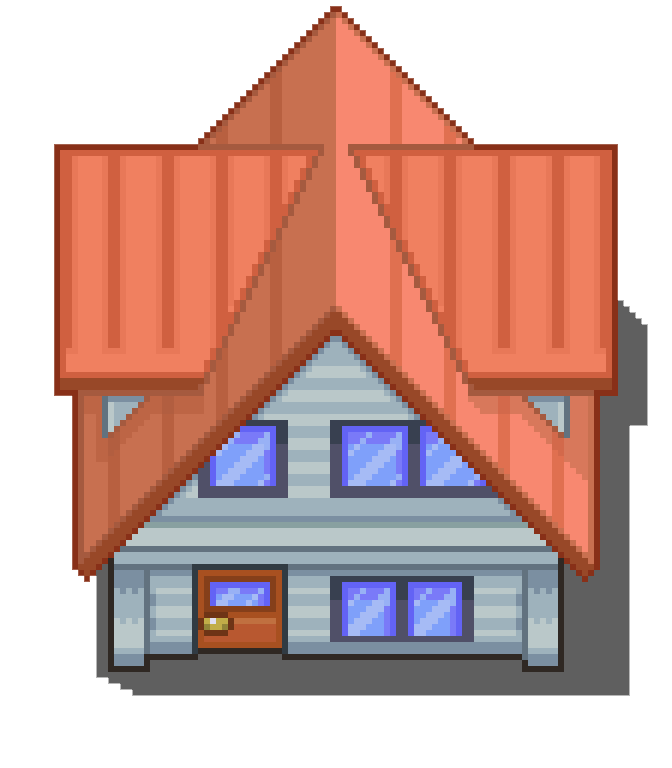
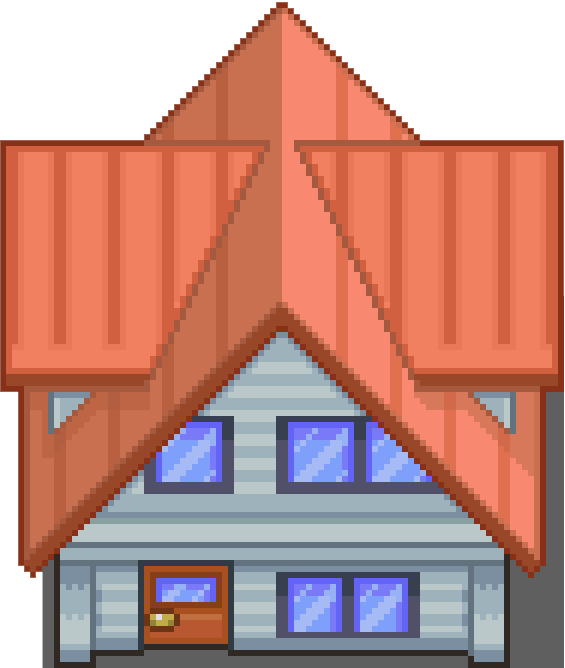
Perspective Fixed

diff --git a/src/graphics/mapDrawer.js b/src/graphics/mapDrawer.js
@@ -87,28 +87,44 @@ MapDrawer.drawMap = function(ctx, map, viewerX, viewerY) {
 
 // Helper function for drawing all entities on the map.
 MapDrawer._helperDrawEntities = function(ctx, map, viewerX, viewerY) {
-	var entitiesToDraw = map.staticMapEntities.slice(0);
+	var entitiesToDraw = map.staticMapInstances.slice(0);
 	entitiesToDraw.sort(function(a, b) {
-		return a.y - b.y;
+		return a.y + a.entity.collisionHeight / 2 - 
+				b.y - b.entity.collisionHeight / 2;
 	});
 	for (var i = 0; i < entitiesToDraw.length; i++) {
-		var yBlockWidth =  MapDrawer.TOP_ROW_TILE_WIDTH * 
-				MapDrawer.NUM_TILES_TOP / 
-						(MapDrawer.NUM_TILES_TOP - (entitiesToDraw[i].y - 
-								(viewerY - MapDrawer.TOTAL_ROWS / 2)) * 
-						MapDrawer.SHRINKAGE.WIDTH);
-		var spriteRatio = yBlockWidth / MapDrawer.TILE_DIM;
-		var anchorLoc = MapDrawer._helperLocatePixel(entitiesToDraw[i].x,
-				entitiesToDraw[i].y, viewerX, viewerY, yBlockWidth);
+		var footYGridPos = 
+				(MapDrawer.TOTAL_ROWS + entitiesToDraw[i].entity.collisionHeight) / 2;
+		var centerYRealGridPos = entitiesToDraw[i].y - 
+				viewerY + MapDrawer.TOTAL_ROWS / 2;
+		var footYRealGridPos = entitiesToDraw[i].y + 
+				entitiesToDraw[i].entity.collisionHeight / 2 - viewerY + 
+				MapDrawer.TOTAL_ROWS / 2;
+		var realYDiff = MapDrawer._helperCalcScreenY(footYGridPos) - 
+				MapDrawer._helperCalcScreenY(MapDrawer.TOTAL_ROWS / 2);
+		var gridYDiff = MapDrawer._helperCalcScreenY(footYRealGridPos) - 
+				MapDrawer._helperCalcScreenY(centerYRealGridPos);
+		var yScale = 1;//gridYDiff / realYDiff;
+		var widthAtMidFoot = MapDrawer.TOP_ROW_TILE_WIDTH * 
+				MapDrawer.NUM_TILES_TOP / (MapDrawer.NUM_TILES_TOP - 
+				(footYGridPos) * MapDrawer.SHRINKAGE.WIDTH);
+		var widthAtRealFoot = MapDrawer._helperGetYBlockWidth(
+				entitiesToDraw[i].y + entitiesToDraw[i].entity.collisionHeight / 2, 
+				viewerY);
+		var xScale = widthAtRealFoot / widthAtMidFoot;
+		var centerLoc = MapDrawer._helperLocatePixel(entitiesToDraw[i].x, 
+				entitiesToDraw[i].y + entitiesToDraw[i].entity.collisionHeight / 2, 
+				viewerX, viewerY, MapDrawer._helperGetYBlockWidth(entitiesToDraw[i].y + 
+						entitiesToDraw[i].entity.collisionHeight / 2, viewerY));
 		// check if the boundingBox is in bounds
 		var boundingRect = {
-			x: anchorLoc.x - entitiesToDraw[i].anchor.x * spriteRatio,
-			y: anchorLoc.y - entitiesToDraw[i].anchor.y * spriteRatio,
-			width: entitiesToDraw[i].sprite.width * spriteRatio,
-			height: entitiesToDraw[i].sprite.height * spriteRatio
+			x: centerLoc.x - entitiesToDraw[i].entity.center.x * xScale,
+			y: centerLoc.y - entitiesToDraw[i].entity.sprite.height * yScale,
+			width: entitiesToDraw[i].entity.sprite.width * xScale,
+			height: entitiesToDraw[i].entity.sprite.height * yScale
 		};
 		if (MapDrawer._helperRectOnScreen(boundingRect)) {
-			ctx.drawImage(entitiesToDraw[i].sprite, boundingRect.x, 
+			ctx.drawImage(entitiesToDraw[i].entity.sprite, boundingRect.x, 
 					boundingRect.y, boundingRect.width, boundingRect.height);
 		}
 	}
@@ -130,6 +146,13 @@ MapDrawer._helperLocatePixel = function(x, y, viewerX, viewerY, yBlockWidth) {
 	result.y = MapDrawer._helperCalcScreenY(
 			y - (viewerY - MapDrawer.TOTAL_ROWS / 2));
 	return result;
+};
+
+// Helper function to get block width.
+MapDrawer._helperGetYBlockWidth = function(y, viewerY) {
+	return MapDrawer.TOP_ROW_TILE_WIDTH * MapDrawer.NUM_TILES_TOP / 
+			(MapDrawer.NUM_TILES_TOP - (y - (viewerY - MapDrawer.TOTAL_ROWS / 2)) * 
+			MapDrawer.SHRINKAGE.WIDTH)
 };
 
 

diff --git a/src/loaders/mapLoader.js b/src/loaders/mapLoader.js
@@ -22,7 +22,7 @@ MapLoader.load = function(mapName, opt_callback) {
 			MapLoader._helperLoadStaticMapEntities(mapData, function() {
 				if (opt_callback) {
 					opt_callback(new Map(mapData.name, mapData.data, mapData.width, 
-							tileset, mapData.dummyTile, mapData.staticMapEntities));
+							tileset, mapData.dummyTile, mapData.staticMapInstances));
 				};
 			});			
 		});
@@ -40,28 +40,23 @@ MapLoader.unload = function(map) {
 // Helper to load static map entities
 MapLoader._helperLoadStaticMapEntities = function(mapData, callback) {
 	var entityImageSpecs = {};
-	for (var i = 0; i < mapData.staticMapEntities.length; i++) {
-		entityImageSpecs[mapData.staticMapEntities[i].sprite] = 
-				MapLoader.STATIC_MAP_ENTITY_DIR + mapData.staticMapEntities[i].sprite + 
-				'.png';
+	for (var entityKey in mapData.staticMapEntities) {
+		if (mapData.staticMapEntities.hasOwnProperty(entityKey)) {
+			entityImageSpecs[mapData.staticMapEntities[entityKey].sprite] = 
+					MapLoader.STATIC_MAP_ENTITY_DIR + 
+					mapData.staticMapEntities[entityKey].sprite + '.png';
+		}
 	}
 	ImgUtils.loadImages(entityImageSpecs, function(images) {
-		for (var i = 0; i < mapData.staticMapEntities.length; i++) {
-			mapData.staticMapEntities[i].sprite = 
-					images[mapData.staticMapEntities[i].sprite];
-					// Calculate anchor point
-			mapData.staticMapEntities[i].anchor = {
-				x: mapData.staticMapEntities[i].sprite.width / 2,
-				y: mapData.staticMapEntities[i].sprite.height - 
-						(mapData.staticMapEntities[i].collisionDepth == undefined ? 
-								mapData.staticMapEntities[i].sprite.width / 2 : 0)
-			};
-			if (mapData.staticMapEntities[i].collisionDepth == undefined) {
-				mapData.staticMapEntities[i].collisionRadius = 
-						mapData.staticMapEntities[i].sprite.width / 2 / MapDrawer.TILE_DIM;
-			} else {
-				mapData.staticMapEntities[i].collisionDepth /= MapDrawer.TILE_DIM;
+		for (var entityKey in mapData.staticMapEntities) {
+			if (mapData.staticMapEntities.hasOwnProperty(entityKey)) {
+				mapData.staticMapEntities[entityKey].sprite = 
+						images[mapData.staticMapEntities[entityKey].sprite];
 			}
+		}
+		for (var i = 0; i < mapData.staticMapInstances.length; i++) {
+			mapData.staticMapInstances[i].entity = 
+					mapData.staticMapEntities[mapData.staticMapInstances[i].entity];
 		}
 		if (callback) {
 			callback();

diff --git a/src/demos/mapDrawerDemo.js b/src/demos/mapDrawerDemo.js
@@ -26,13 +26,23 @@ var bindMouse = function() {
 		yAboveCenter = e.y < window.innerHeight / 2;
 	};
 
+	document.body.onkeyup = function(e) {
+		if (e.keyCode == 32) {
+			paused = !paused;
+		}
+	}
+
+	var paused = false;
+
 	var lastOperated = Date.now();
 
 	window.setInterval(function() {
 		var currTime = Date.now();
-		var scalingFactor = (currTime - lastOperated) / 33;
-		viewerLoc.x += (xLeftOfCenter ? -0.02 : 0.02) * scalingFactor;
-		viewerLoc.y += (yAboveCenter ? -0.02 : 0.02) * scalingFactor;
+		if (!paused) {
+			var scalingFactor = (currTime - lastOperated) / 33;
+			viewerLoc.x += (xLeftOfCenter ? -0.02 : 0.02) * scalingFactor;
+			viewerLoc.y += (yAboveCenter ? -0.02 : 0.02) * scalingFactor;
+		}
 		lastOperated = currTime;
 	}, 33);
 };

diff --git a/src/testClient.html b/src/testClient.html
@@ -3,13 +3,13 @@
 	<head>
 		<!-- GENERATED BY CLIENT GEN -->
 		<script src="/src/graphics/imgUtils.js"></script>
-		<script src="/src/loaders/tileLoader.js"></script>
 		<script src="/src/demos/mapDrawerDemo.js"></script>
 		<script src="/src/maps/map.js"></script>
-		<script src="/src/graphics/screenProps.js"></script>
-		<script src="/src/graphics/mapDrawer.js"></script>
-		<script src="/src/loaders/jsonLoader.js"></script>
 		<script src="/src/loaders/mapLoader.js"></script>
+		<script src="/src/loaders/jsonLoader.js"></script>
+		<script src="/src/graphics/screenProps.js"></script>
+		<script src="/src/loaders/tileLoader.js"></script>
+		<script src="/src/graphics/mapDrawer.js"></script>
 		<!-- GENERATED BY CLIENT GEN -->
 		<style>
 body {

diff --git a/src/maps/map.js b/src/maps/map.js
@@ -4,7 +4,7 @@
  * information like events, connectors, npcs, mob data, etc in the future.
  */
 
-var Map = function(name, data, width, tileset, dummyTile, staticMapEntities) {
+var Map = function(name, data, width, tileset, dummyTile, staticMapInstances) {
 	// The name of the map
 	this.name = name;
 
@@ -22,5 +22,5 @@ var Map = function(name, data, width, tileset, dummyTile, staticMapEntities) {
 	this.dummyTile = dummyTile;
 
 	// The static map entities of the map
-	this.staticMapEntities = staticMapEntities;
+	this.staticMapInstances = staticMapInstances;
 };
